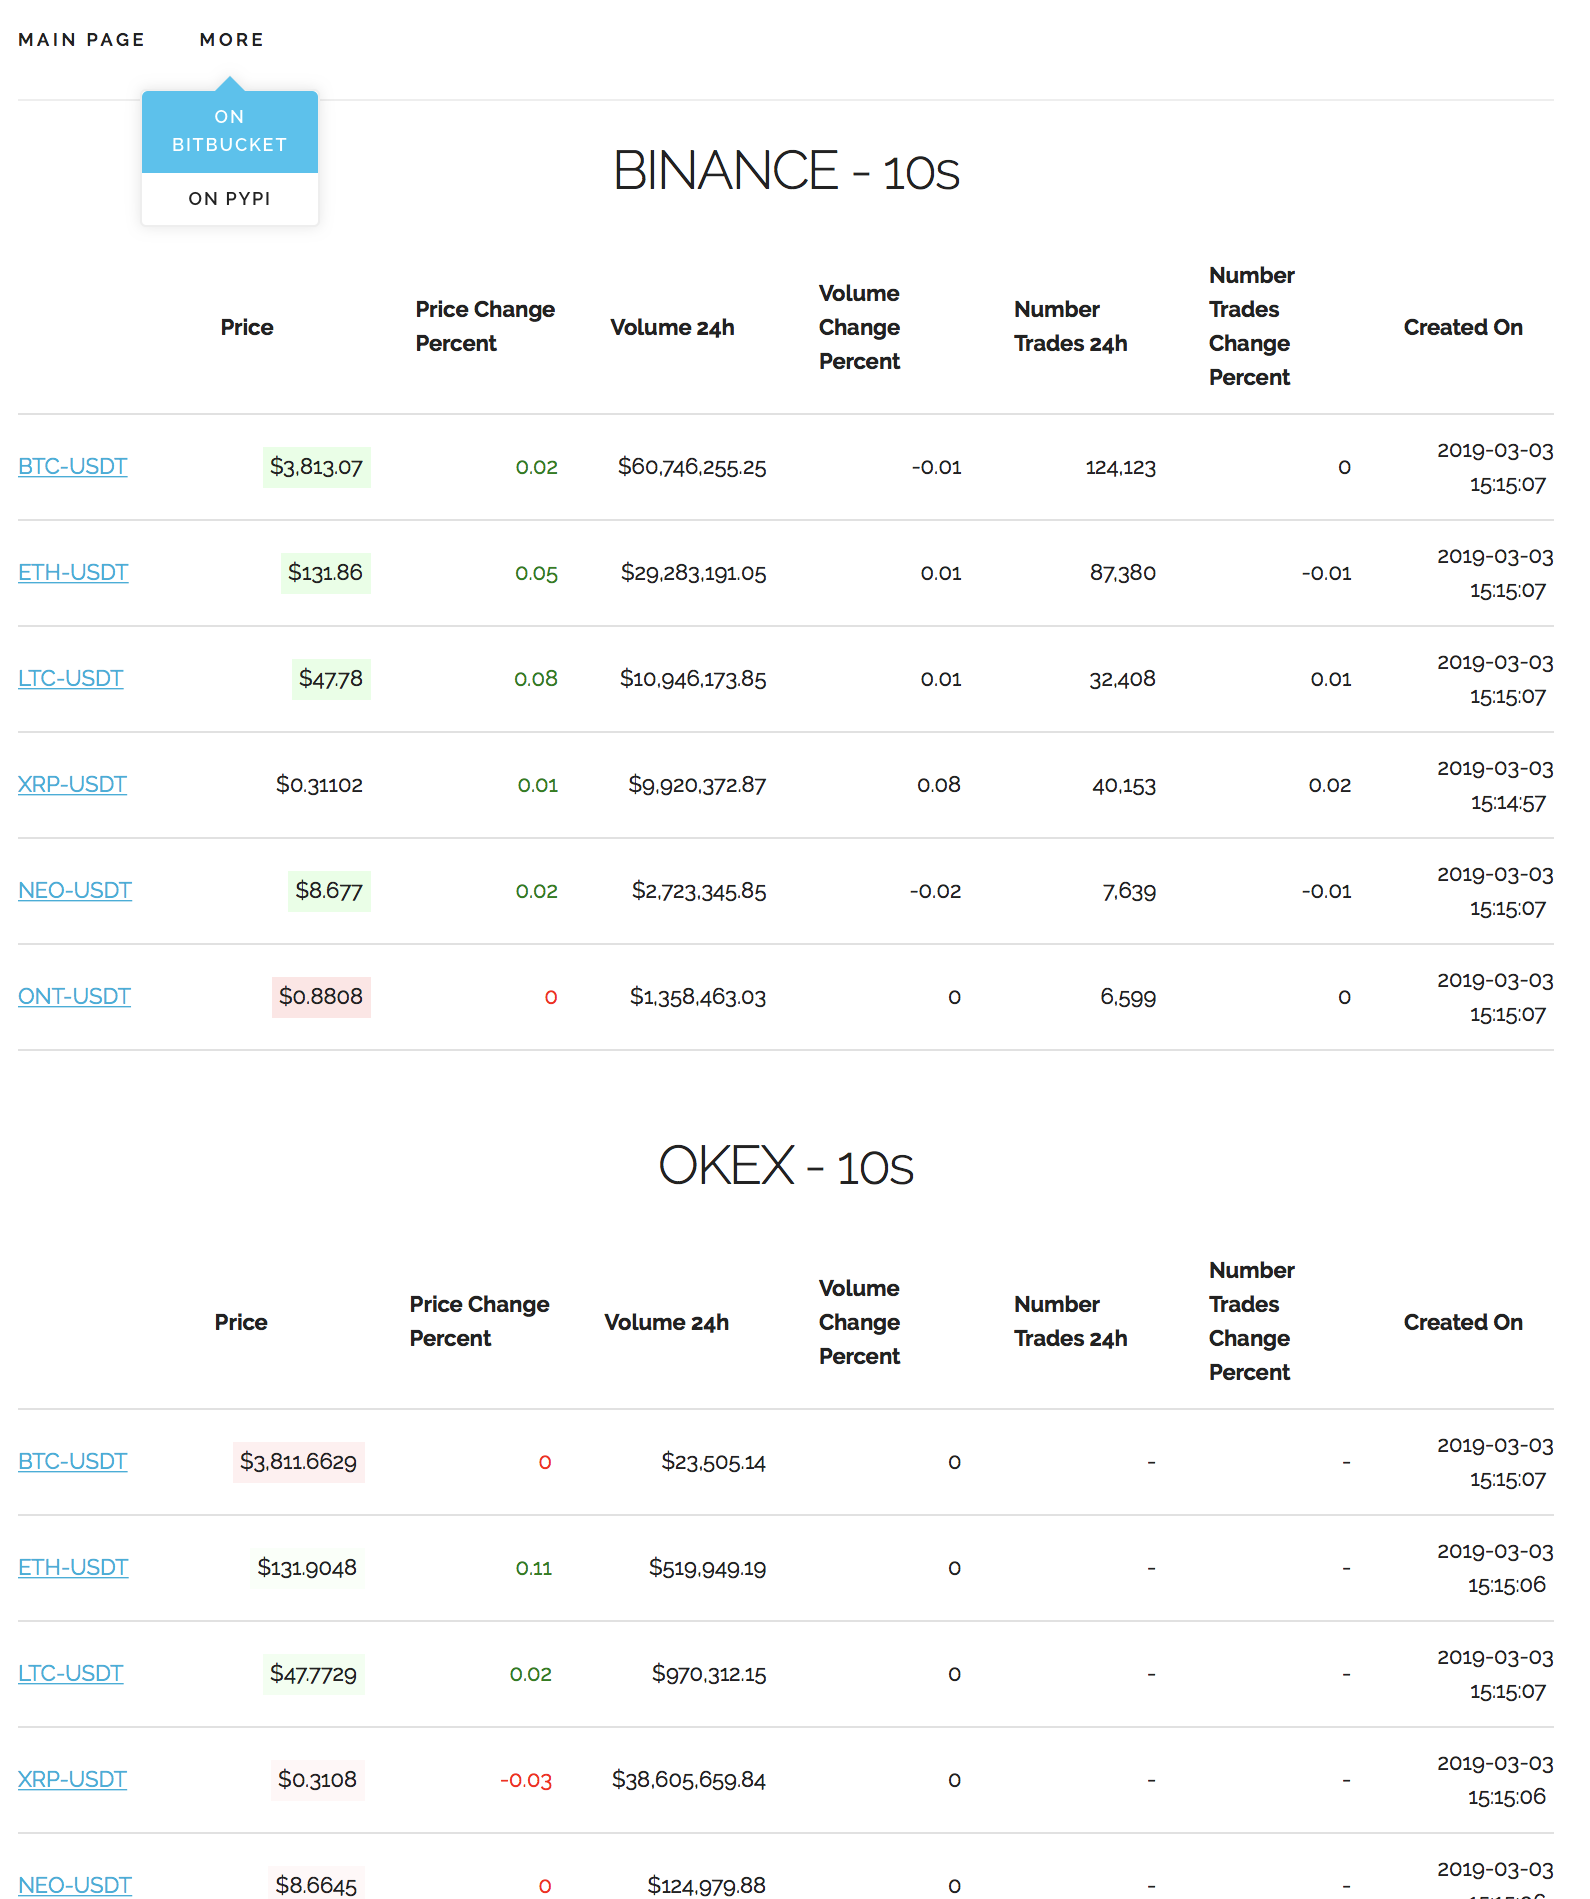
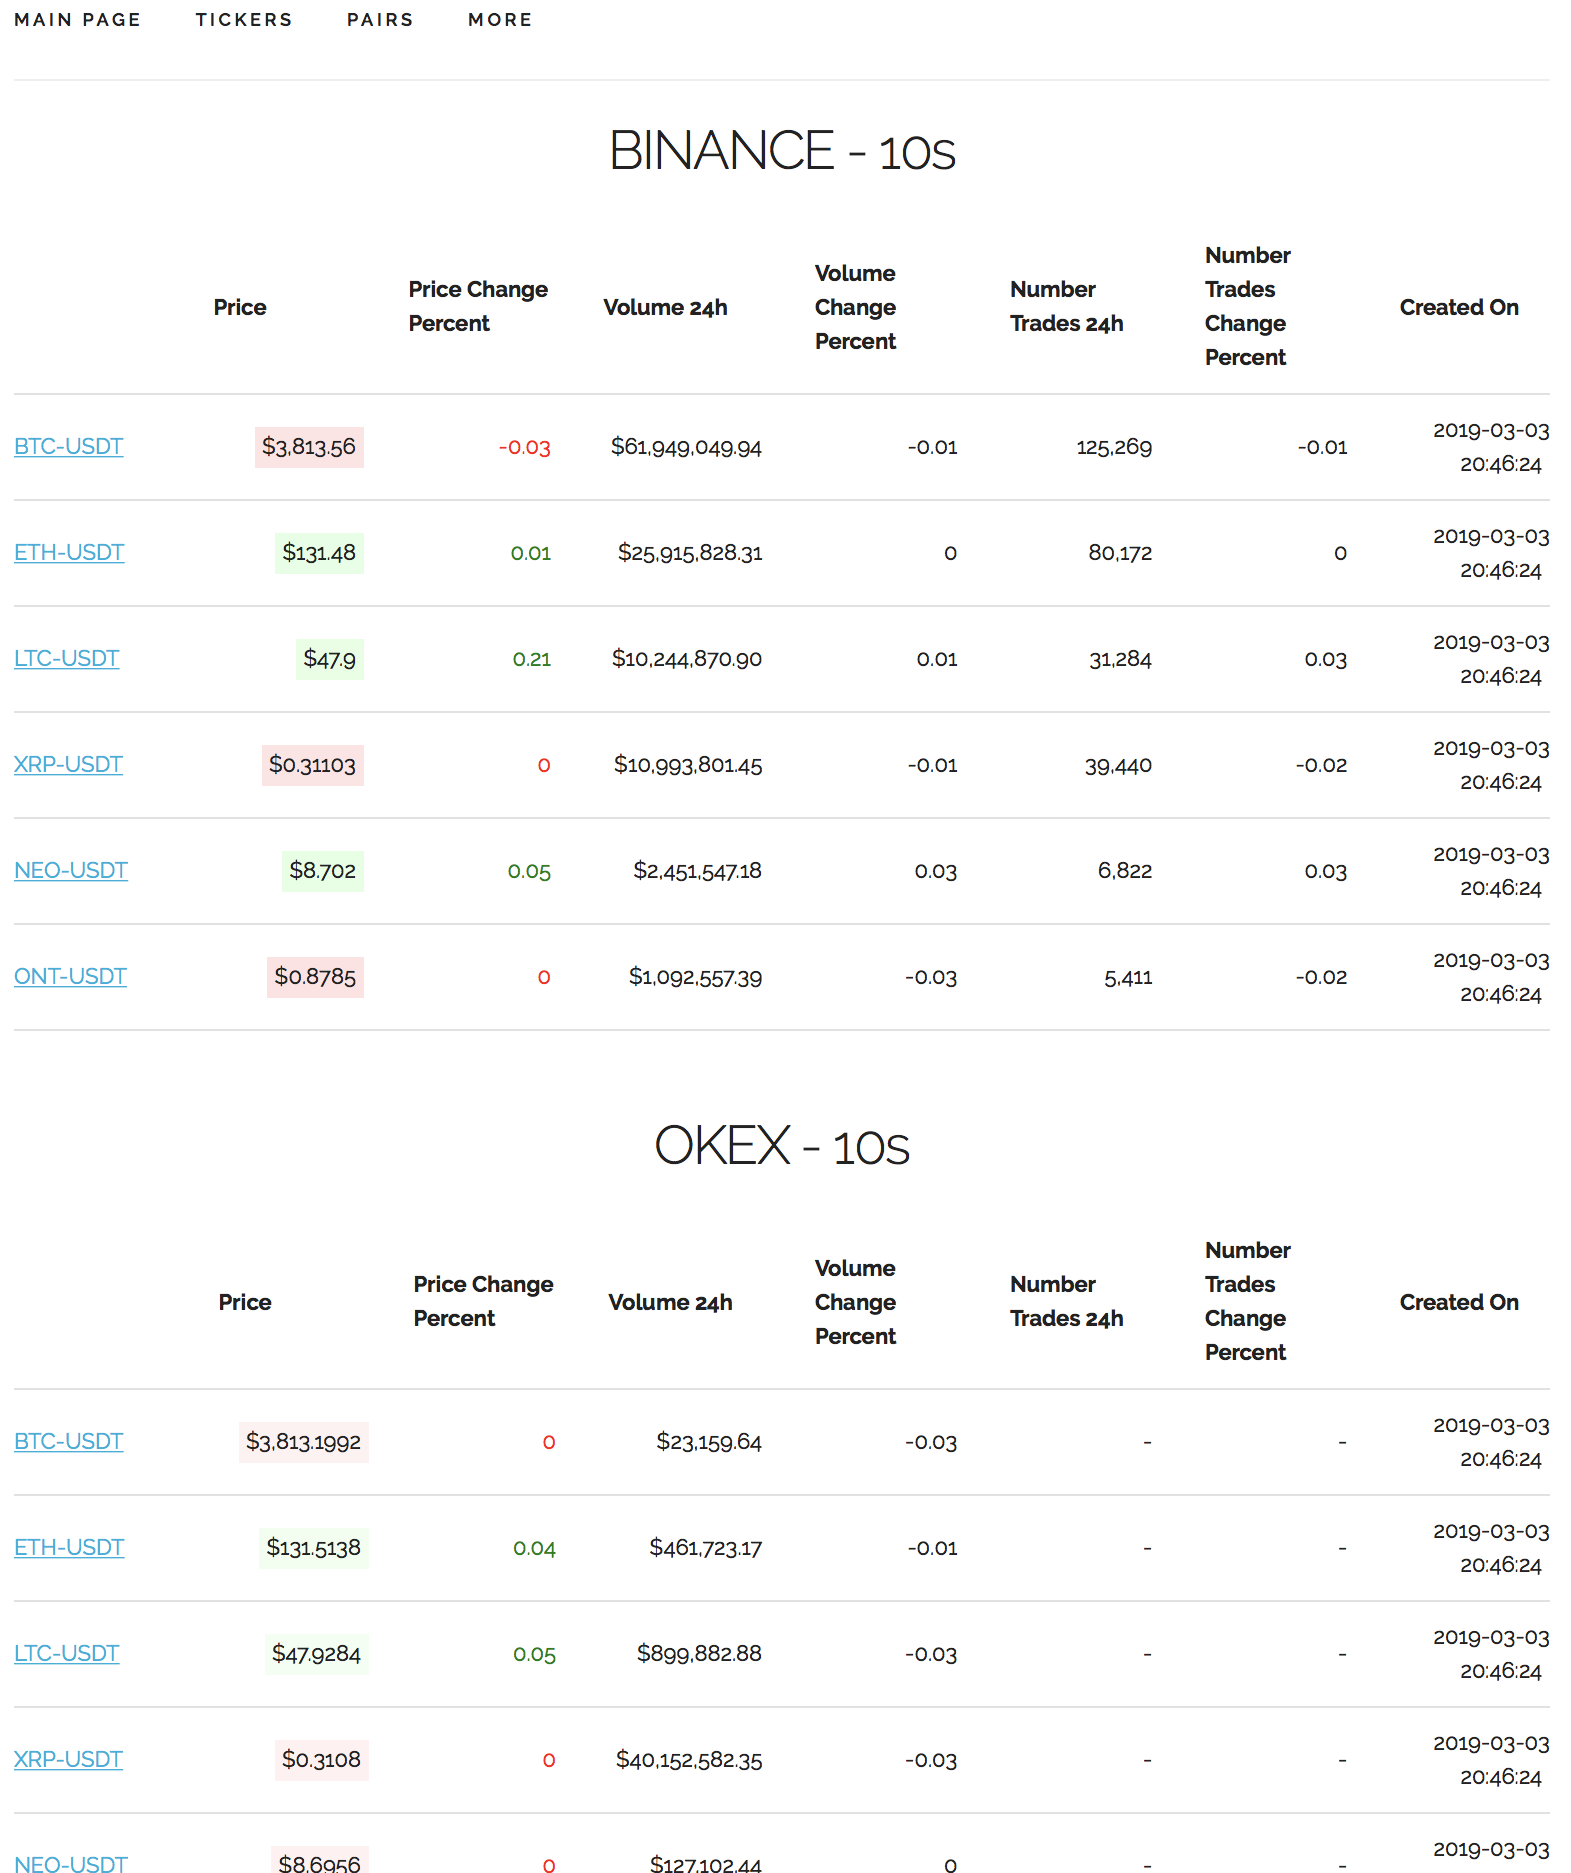
Updated README.md with latest screenshots

diff --git a/README.md b/README.md
@@ -191,9 +191,17 @@ Open the browser with the URL http://127.0.0.1:8000
 
 ![alt text](xtcryptosignals/static/imgs/readme/2.png)
 
-10 seconds ticker page for Bitcoin in the URL http://127.0.0.1:8000/ticker/BTCUSDT/10s
+Displaying Tickers menu
 
 ![alt text](xtcryptosignals/static/imgs/readme/3.png)
+
+Displaying Pairs menu
+
+![alt text](xtcryptosignals/static/imgs/readme/4.png)
+
+10 seconds ticker page for Bitcoin in the URL http://127.0.0.1:8000/ticker/BTCUSDT/10s
+
+![alt text](xtcryptosignals/static/imgs/readme/5.png)
 
 ## Disclaimer
 This project is work in progress and when it comes to trading use it at your own risk.
